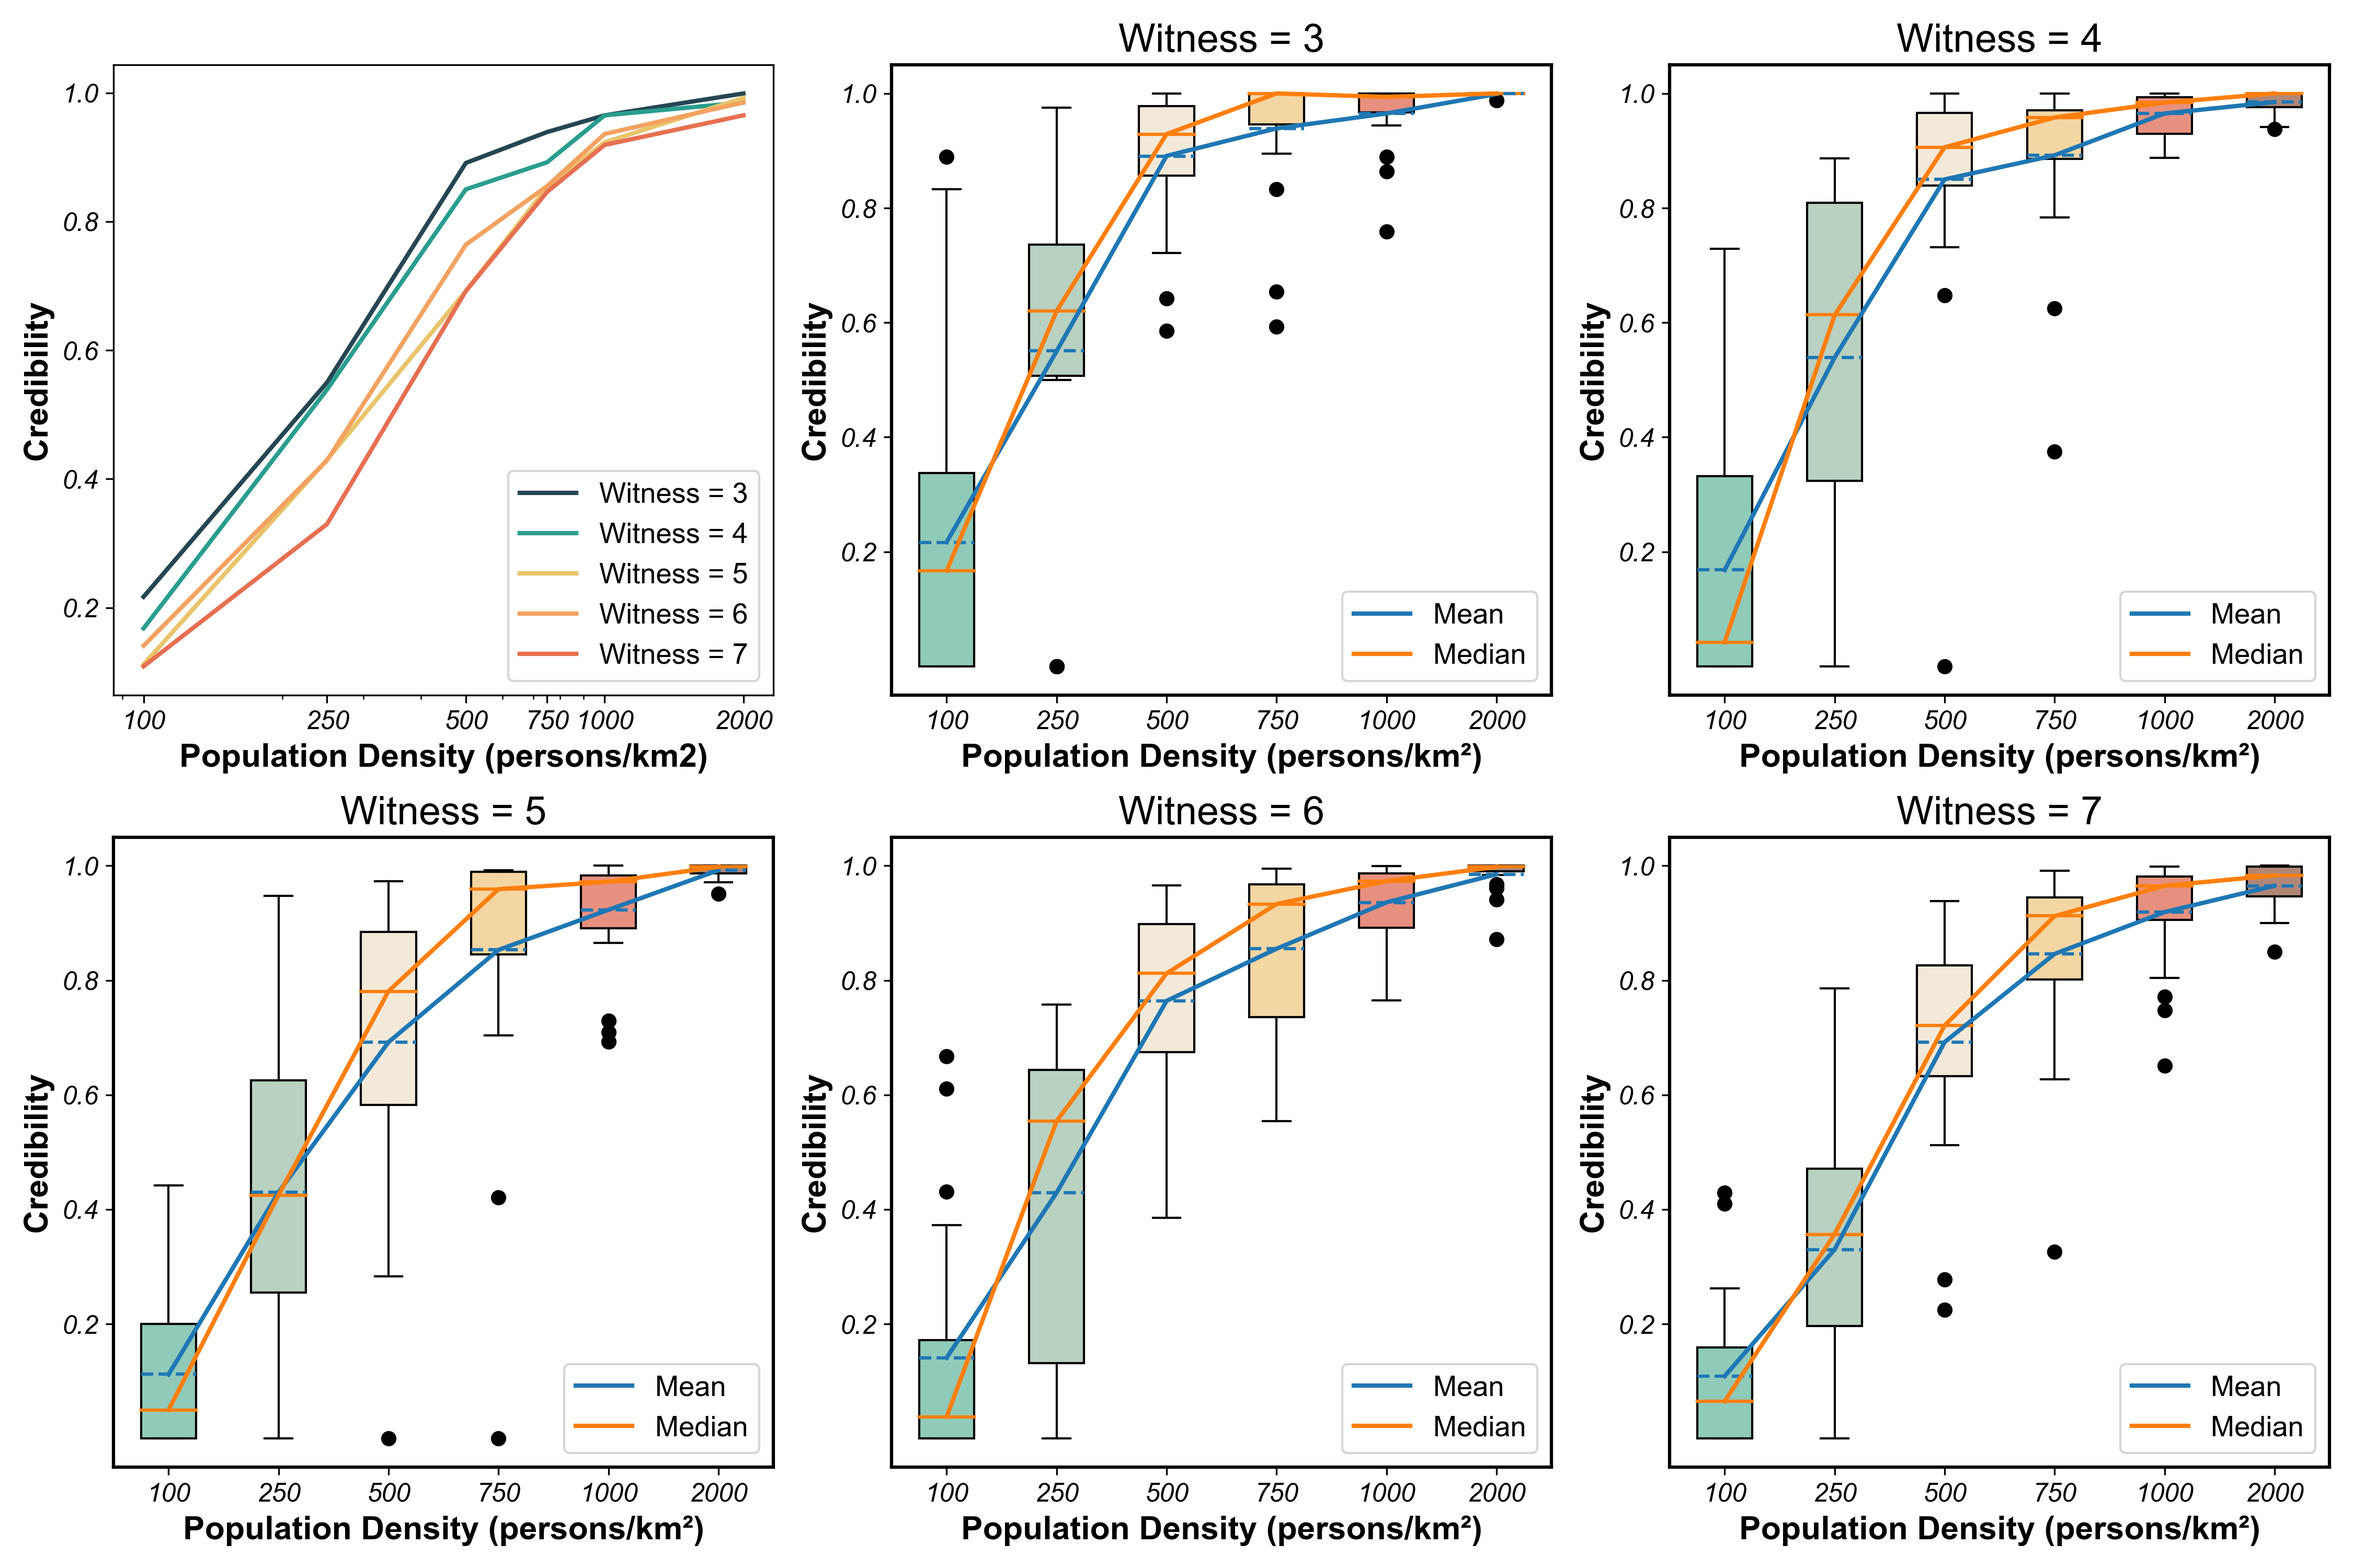
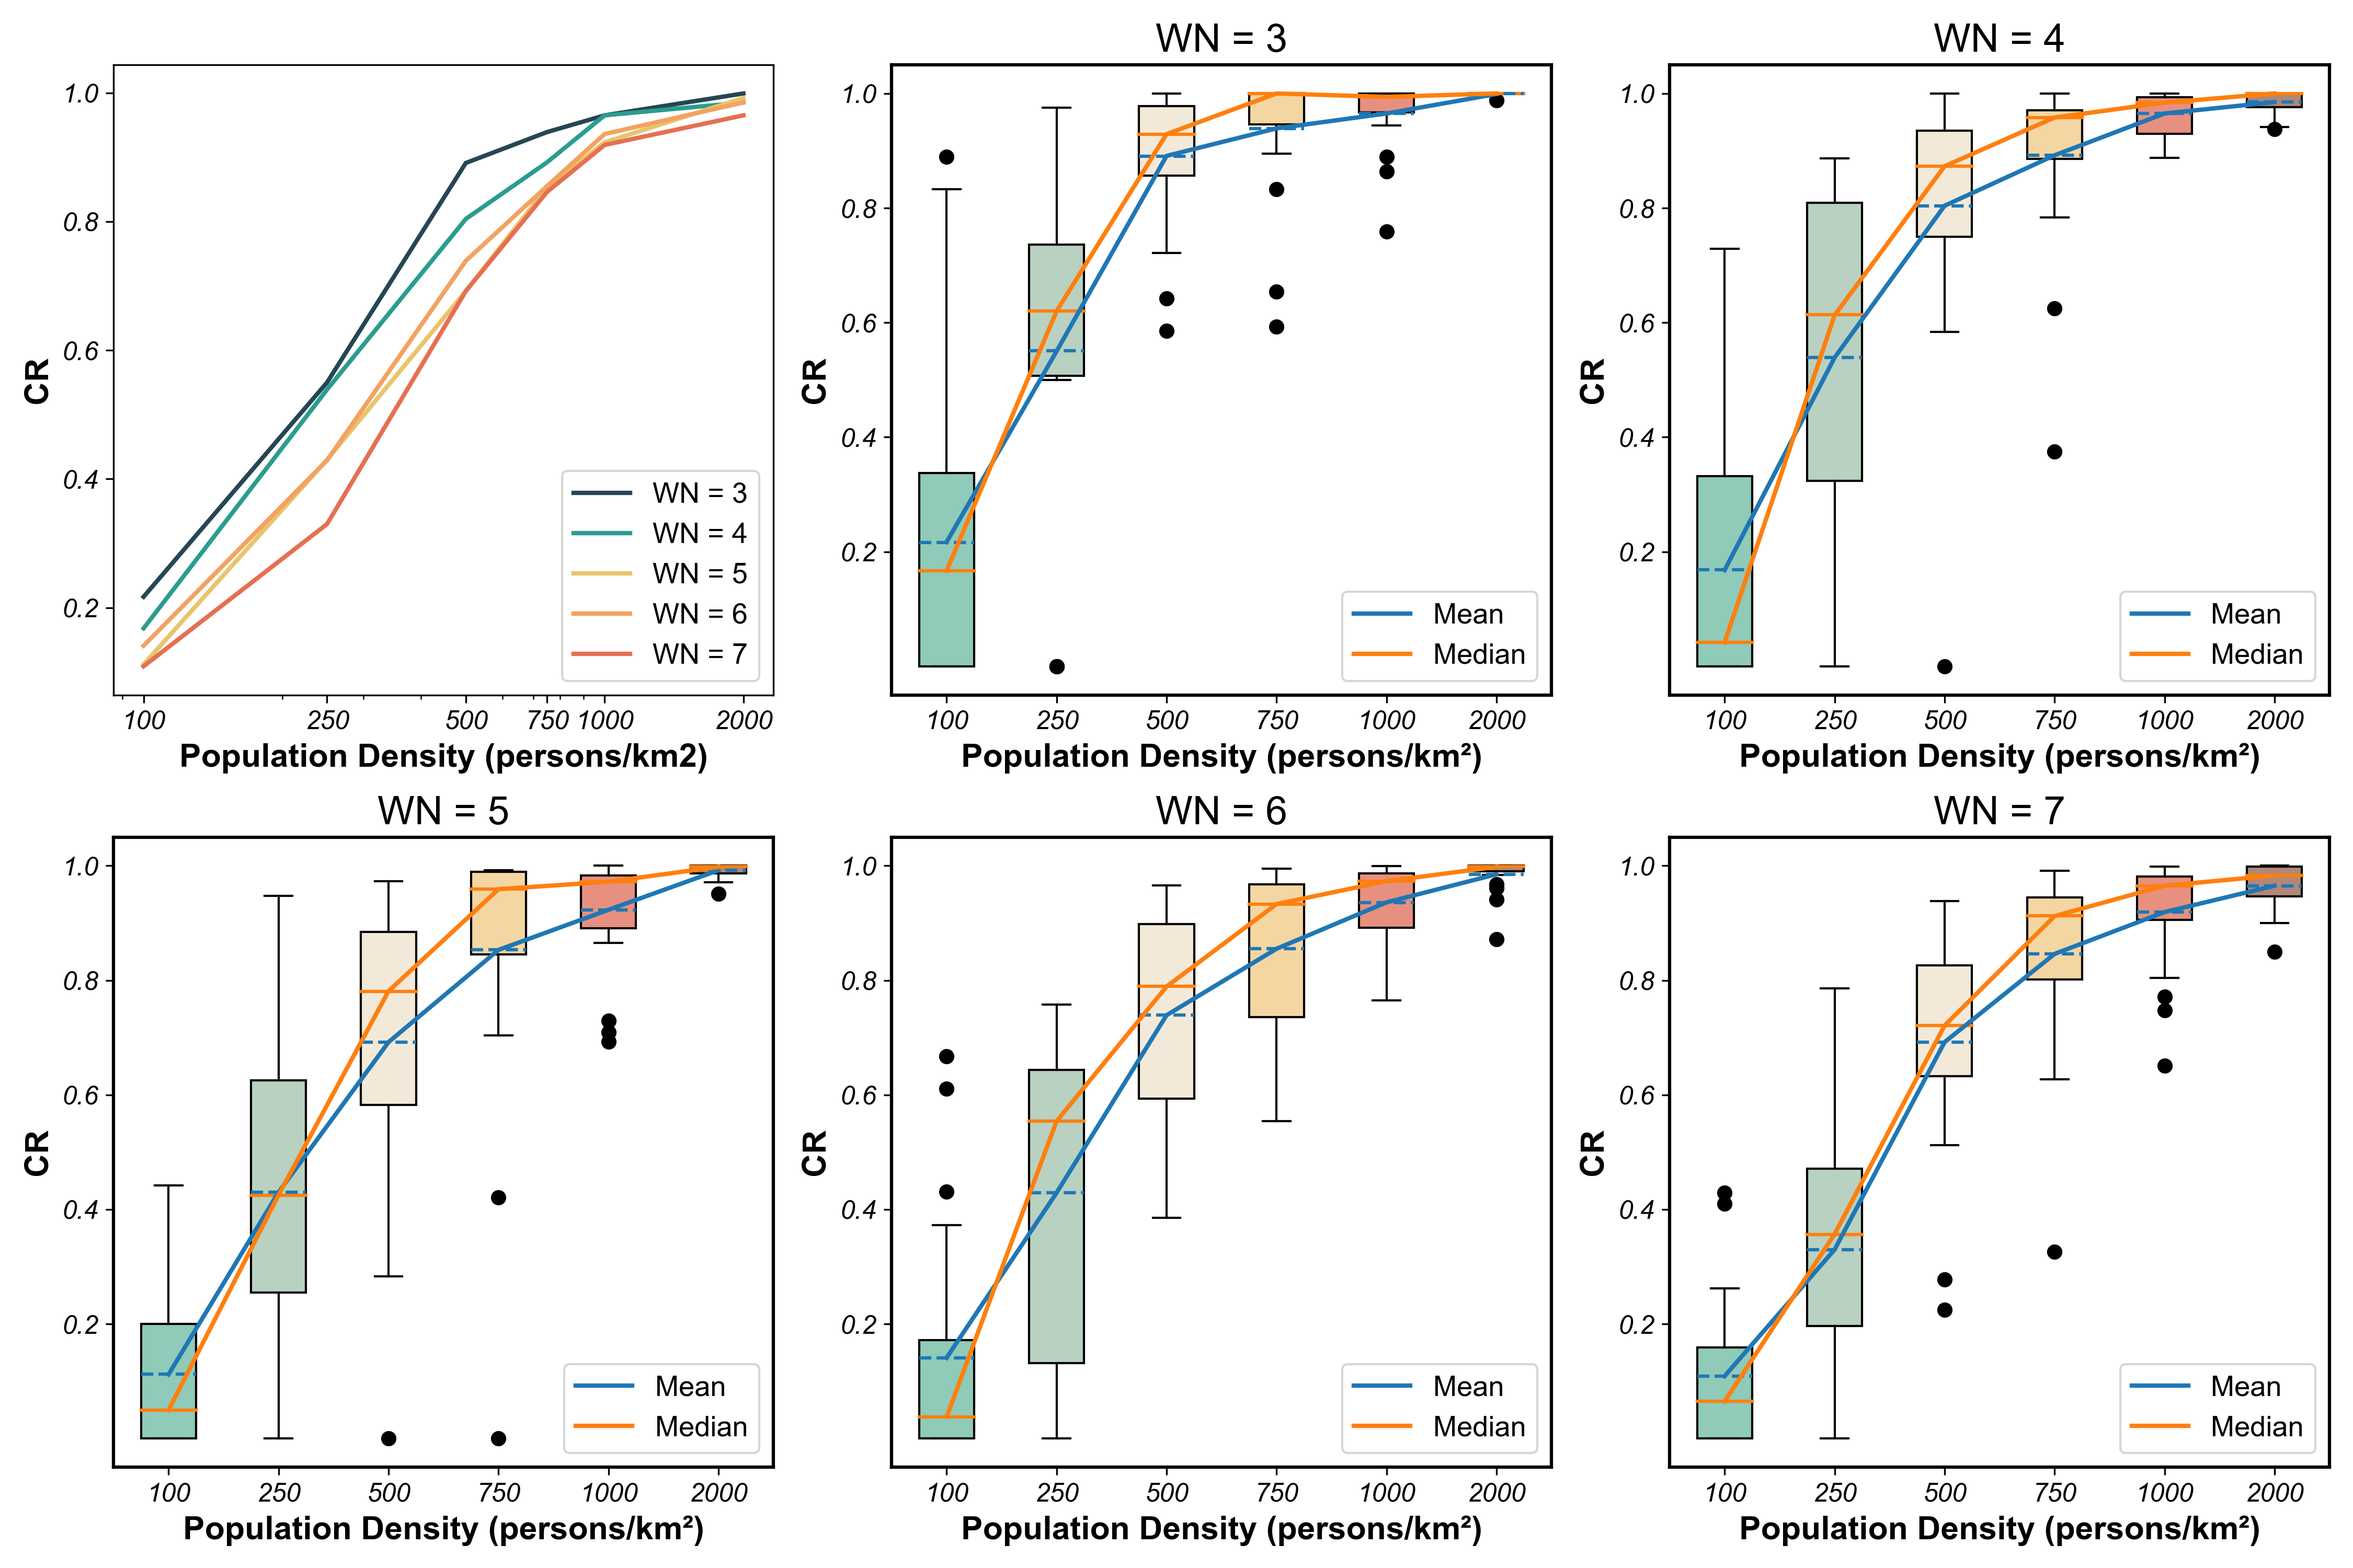
8.9

diff --git a/figure.py b/figure.py
@@ -42,57 +42,33 @@ if __name__ == '__main__':
         var[str(wn)] = [np.round(np.var(i), 3) for i in [res10000, res25000, res50000, res75000, res100000, res200000]]
         allPoints[str(wn)] = [np.round(i, 3) for i in [res10000, res25000, res50000, res75000, res100000, res200000]]
     x = np.array([100, 250, 500, 750, 1000, 2000])
-    y = np.array([0.2,0.4,0.6,0.8,1.0])
+    y = np.array([0.2, 0.4, 0.6, 0.8, 1.0])
 
     plt.figure(dpi=300)
 
-    #WN和CR合成一个指标
+    # WN和CR合成一个指标
 
     def sigmoid(x):
         return 1.0 / (1 + np.exp(-x))
 
-    wn = np.array([3,4,5,6,7]).reshape(5,1)
+
+    wn = np.array([3, 4, 5, 6, 7]).reshape(5, 1)
     cr = np.array(list(means.values()))
-    y=np.log1p(wn)/np.log1p(np.max(wn))*(cr)
-    # y = (y-0.5)/(np.max(y)-np.min(y))*2
+    y = np.log1p(wn) / np.log1p(np.max(wn)) * (cr)
+    y = (y - 0.5) / (np.max(y) - np.min(y)) * 2
     print(y)
     print(cr)
 
-    # 平均值折线图
-    # ax = plt.subplot(111)
-    # colors = ['#264653', '#2a9d8e', '#e9c46b','#f3a261','#e66f51']
-    # for (k,v),c in zip(means.items(),colors):
-    #     #拟合曲线图
-    #     # f = np.polyfit(x, v, 3)
-    #     # x2 = np.linspace(0, 2000, 2001, endpoint=True)
-    #     # p = np.poly1d(f)
-    #     # y2 = p(x2)
-    #     # ax.plot(x2,y2,label="Witness = "+k,linewidth=2)
-    #
-    #     #折线图
-    #     ax.plot(x,v,label="Witness = "+k,linewidth=2,color = c)
-    # ax.set_xlabel("Population Density (persons/km2)",fontLabel)
-    # ax.set_ylabel("Credibility",fontLabel)
-    # ax.set_xscale("log")
-    # # ax.set_yscale("log")
-    # ax.set_xticks(x)
-    # ax.set_xticklabels(x, fontTick)
-    # ax.set_yticks(y)
-    # ax.set_yticklabels(y, fontTick)
-    # ax.legend(loc="lower right",prop={"size":13})
-    # plt.savefig("fig/lineChart.png",dpi=300)
-    # plt.show()
-
     # 总图
-    plt.figure(figsize=(15,10))
-    ax = plt.subplot(2,3,1)
-    ax1 = plt.subplot(2,3,2)
-    ax2 = plt.subplot(2,3,3)
-    ax3 = plt.subplot(2,3,4)
-    ax4 = plt.subplot(2,3,5)
-    ax5 = plt.subplot(2,3,6)
+    plt.figure(figsize=(15, 10))
+    ax = plt.subplot(2, 3, 1)
+    ax1 = plt.subplot(2, 3, 2)
+    ax2 = plt.subplot(2, 3, 3)
+    ax3 = plt.subplot(2, 3, 4)
+    ax4 = plt.subplot(2, 3, 5)
+    ax5 = plt.subplot(2, 3, 6)
 
-    #折线图
+    # #折线图
     # colors = ['#264653', '#2a9d8e', '#e9c46b','#f3a261','#e66f51']
     # for (k,v),c in zip(means.items(),colors):
     #     #拟合曲线图
@@ -103,19 +79,19 @@ if __name__ == '__main__':
     #     # ax.plot(x2,y2,label="Witness = "+k,linewidth=2)
     #
     #     #折线图
-    #     ax.plot(x,v,label="Witness = "+k,linewidth=2,color = c)
+    #     ax.plot(x,v,label="WN = "+k,linewidth=2,color = c)
     # ax.set_xlabel("Population Density (persons/km2)",fontLabel)
-    # ax.set_ylabel("Credibility",fontLabel)
+    # ax.set_ylabel("CR",fontLabel)
     # ax.set_xscale("log")
     # # ax.set_yscale("log")
     # ax.set_xticks(x)
-    # ax.set_xticklabels(x, fontTick)
+    # ax.set_xticklabels(x, fontdict=fontTick)
     # ax.set_yticks(y)
-    # ax.set_yticklabels(y, fontTick)
+    # ax.set_yticklabels(y, fontdict=fontTick)
     # ax.legend(loc="lower right", prop={"size": 13})
     # ax.set_title("")
-
-    #箱线图
+    #
+    # # 箱线图
     # axes = [ax1,ax2,ax3,ax4,ax5]
     # for ax,WN in zip(axes,range(3,8)):
     #     WN = str(WN)
@@ -139,16 +115,16 @@ if __name__ == '__main__':
     #         patch.set_facecolor(boxcolor)
     #
     #     ax.set_xlabel("Population Density (persons/km²)", fontLabel)
-    #     ax.set_ylabel("Credibility", fontLabel)
-    #     ax.set_xticklabels(x, fontTick)
+    #     ax.set_ylabel("CR", fontLabel)
+    #     ax.set_xticklabels(x, fontdict=fontTick)
     #     ax.set_yticks(y)
-    #     ax.set_yticklabels(y,fontTick)
+    #     ax.set_yticklabels(y,fontdict=fontTick)
     #     ax.spines["top"].set_linewidth(1.5)
     #     ax.spines["bottom"].set_linewidth(1.5)
     #     ax.spines["left"].set_linewidth(1.5)
     #     ax.spines["right"].set_linewidth(1.5)
     #     ax.legend(loc="lower right", prop={"size": 13})
-    #     ax.set_title("Witness = " + WN,fontdict=fontTitle)
+    #     ax.set_title("WN = " + WN,fontdict=fontTitle)
     # plt.tight_layout()
     # plt.savefig("fig/boxChart.png",dpi=300)
     # plt.show()

diff --git a/temp.py b/temp.py
@@ -1,9 +1,13 @@
 import numpy as np
 
 if __name__ == '__main__':
-    path = "tracking/Res/density-4/res50000.npy"
+    path = "tracking/Res/density-6/res50000.npy"
     res = np.load(path)
-    res[4]-=0.12
+    res[1]+=0.2
+    res[3]+=0.3
+    # res[5]+=0.2
+    # res[11]+=0.1
+
 
     print(res)
 
